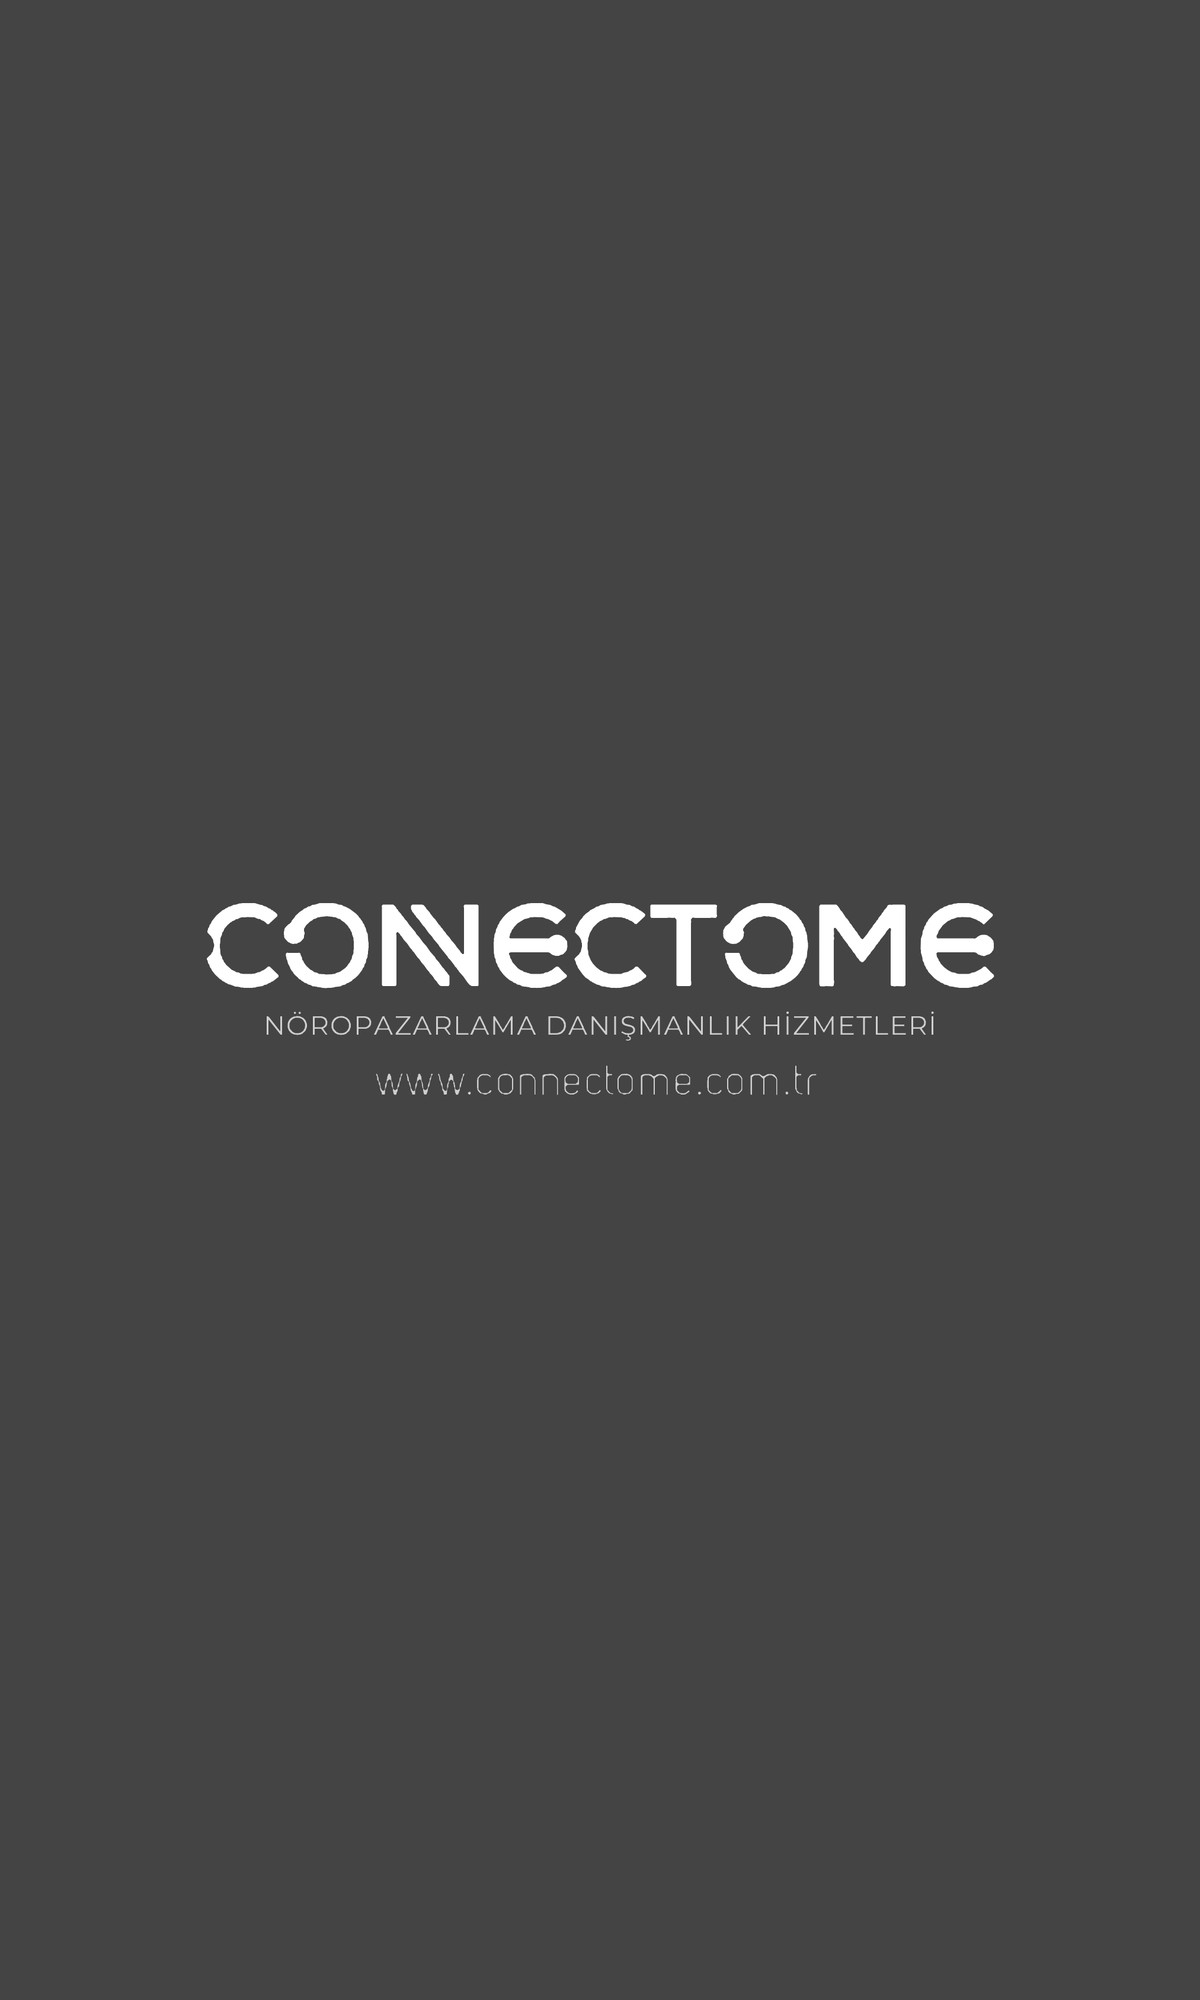
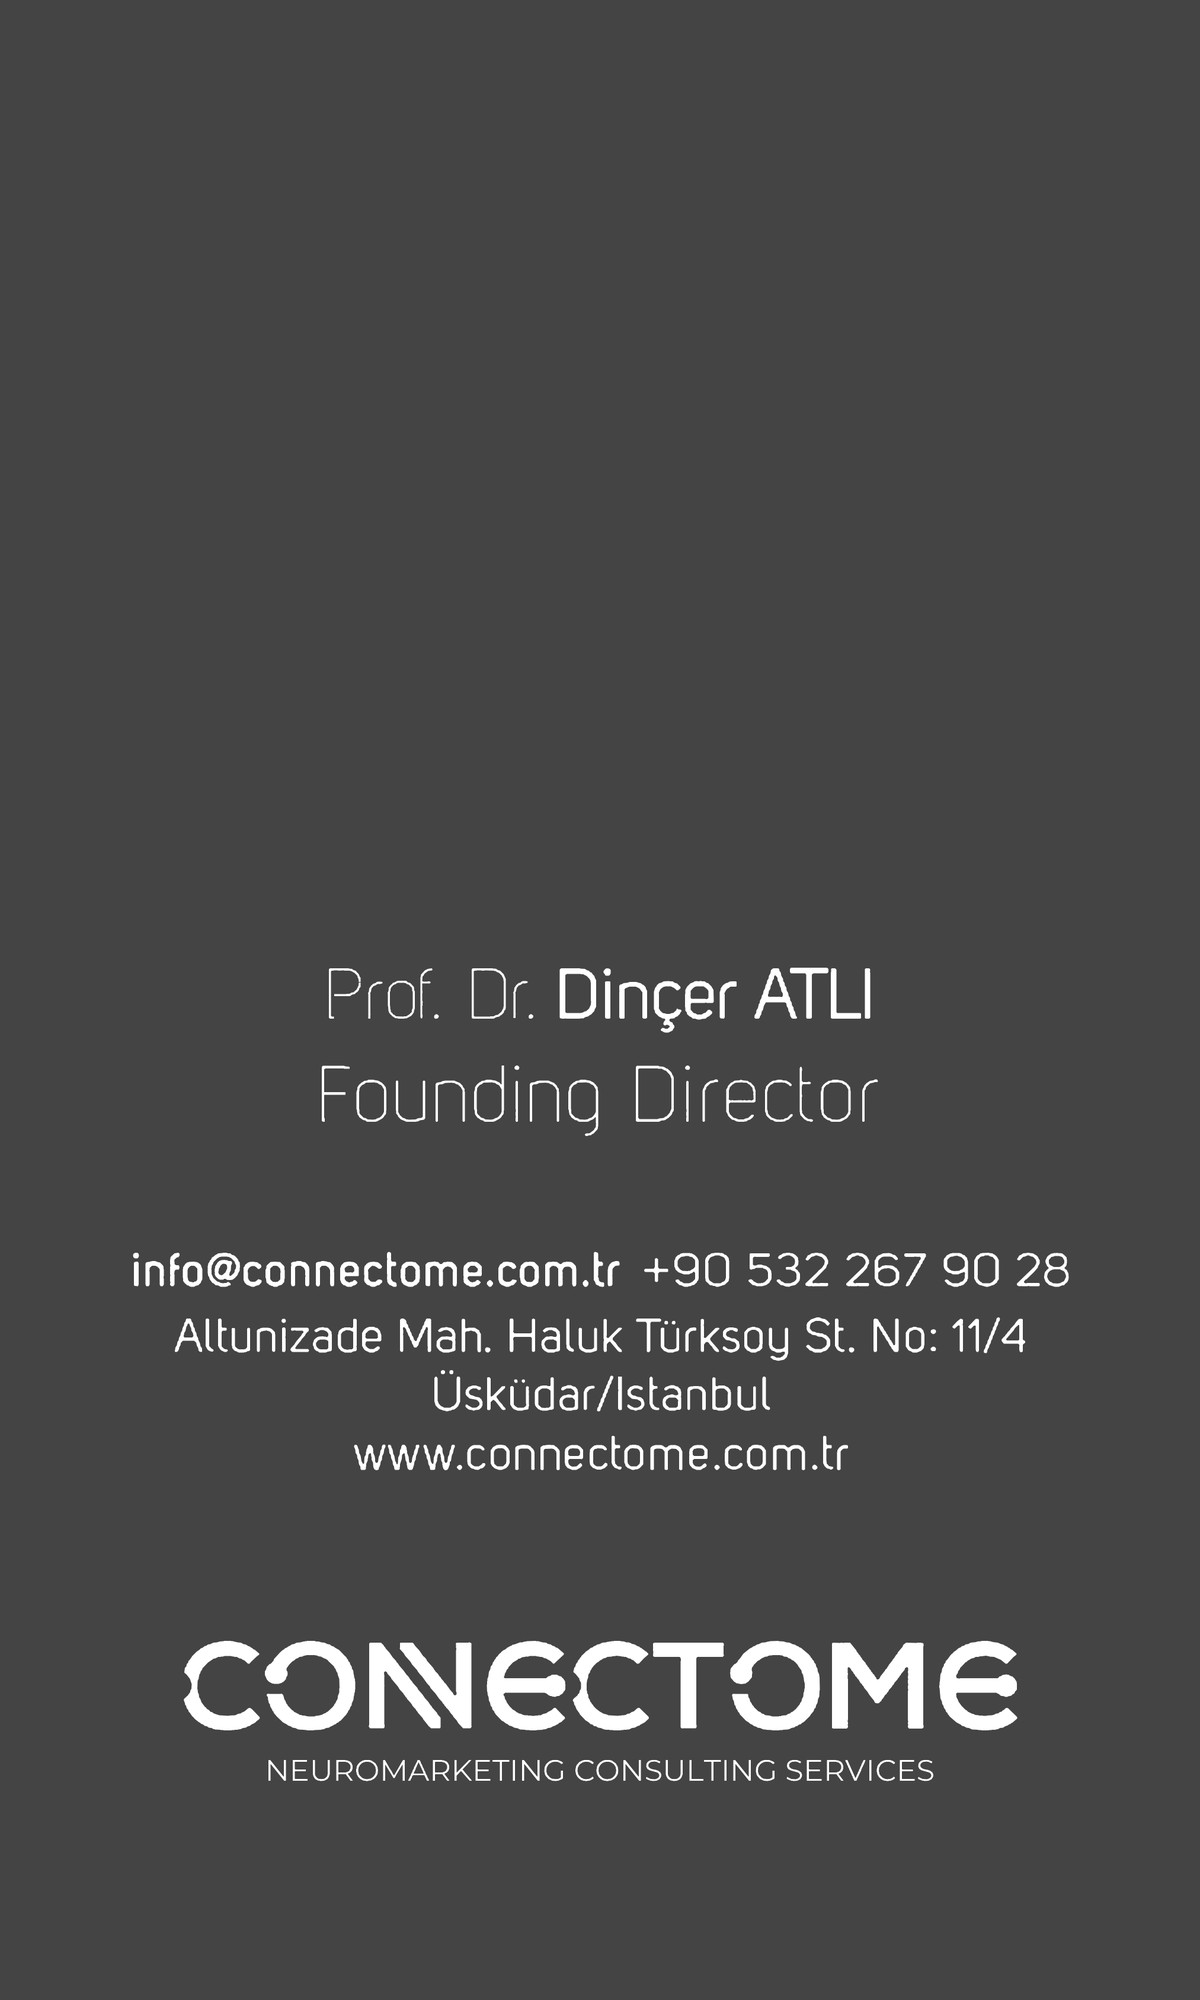
Connectome: firma yüzü yerine İngilizce bilgi yüzü

Changed region(s): [[0.1542, 0.434, 0.8325, 0.558], [0.0925, 0.62, 0.8942, 0.744], [0.1542, 0.806, 0.8633, 0.899]]

diff --git a/connectome/index.html b/connectome/index.html
@@ -91,11 +91,11 @@
   </header>
 
   <section class="card-view" aria-label="Kartvizit">
-    <img id="img-on" src="img/on-yuz.jpg" width="1200" height="2000" alt="Kartvizit – ön yüz">
-    <img id="img-arka" src="img/arka-yuz.jpg" width="1200" height="2000" alt="Kartvizit – arka yüz">
+    <img id="img-on" src="img/on-yuz.jpg" width="1200" height="2000" alt="Kartvizit – Türkçe">
+    <img id="img-arka" src="img/arka-yuz.jpg" width="1200" height="2000" alt="Business card – English">
     <div class="tabs" role="tablist">
-      <button type="button" role="tab" data-show="img-on" aria-selected="true">Ön yüz</button>
-      <button type="button" role="tab" data-show="img-arka" aria-selected="false">Arka yüz</button>
+      <button type="button" role="tab" data-show="img-on" aria-selected="true">Türkçe</button>
+      <button type="button" role="tab" data-show="img-arka" aria-selected="false">English</button>
     </div>
   </section>
 
